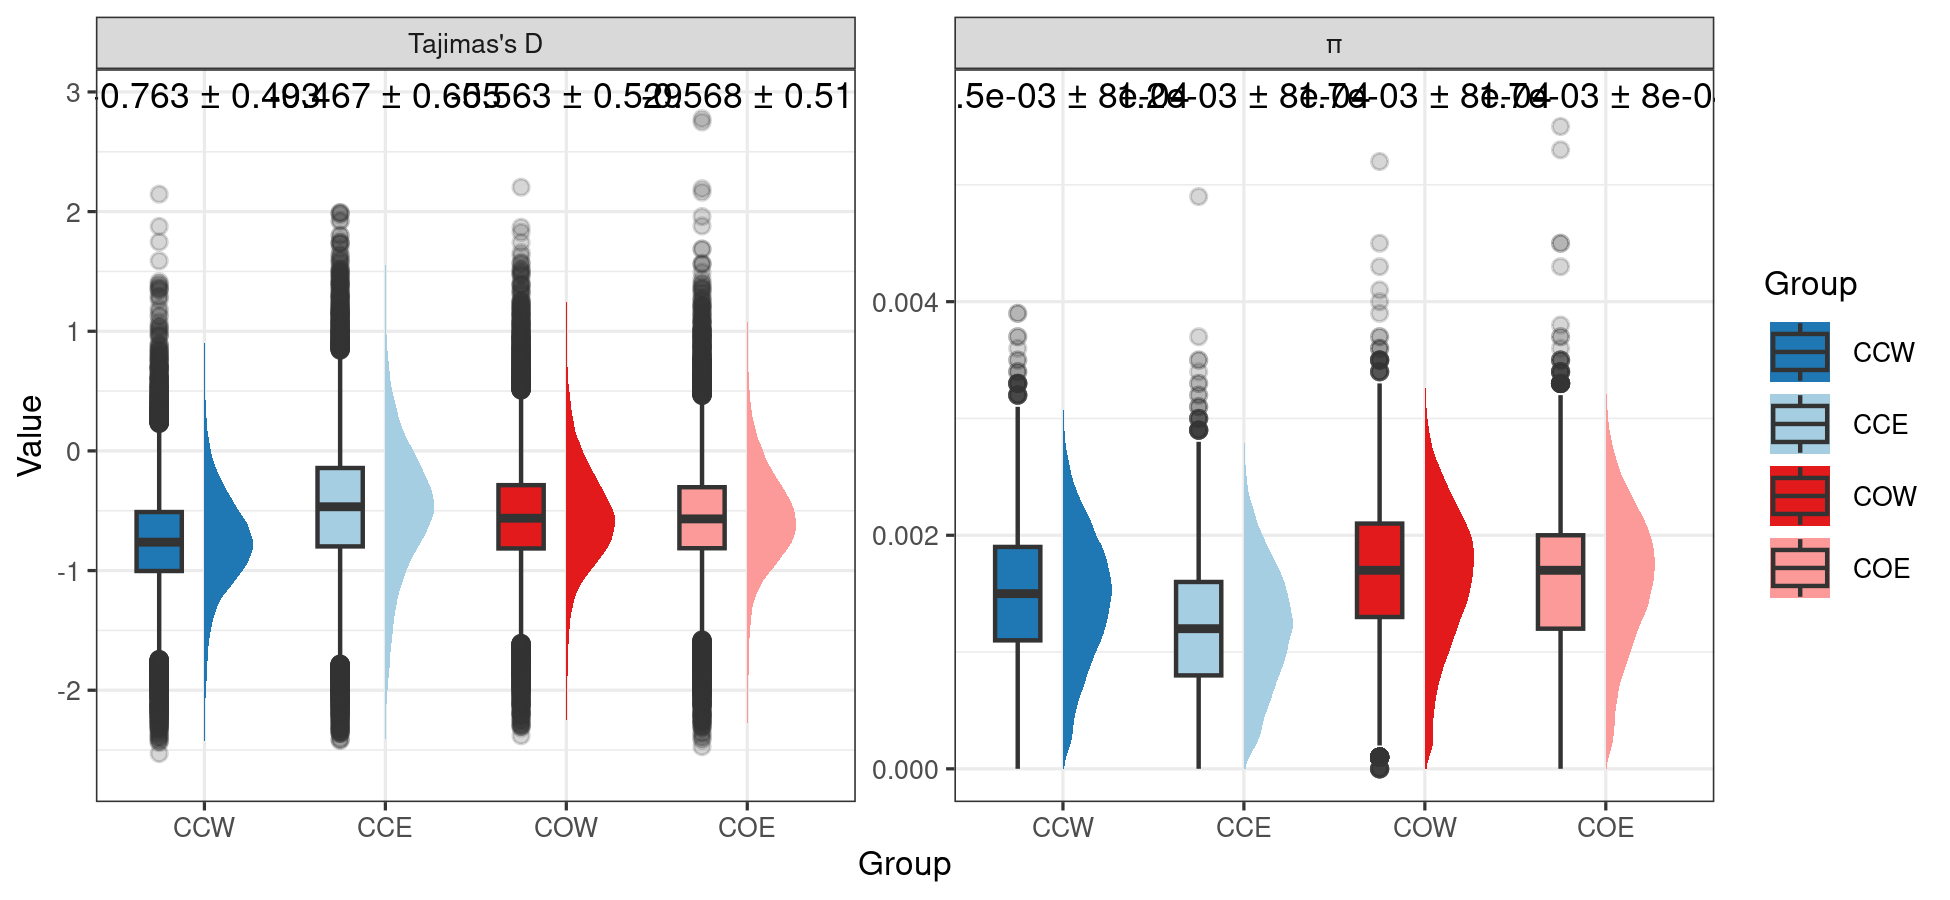
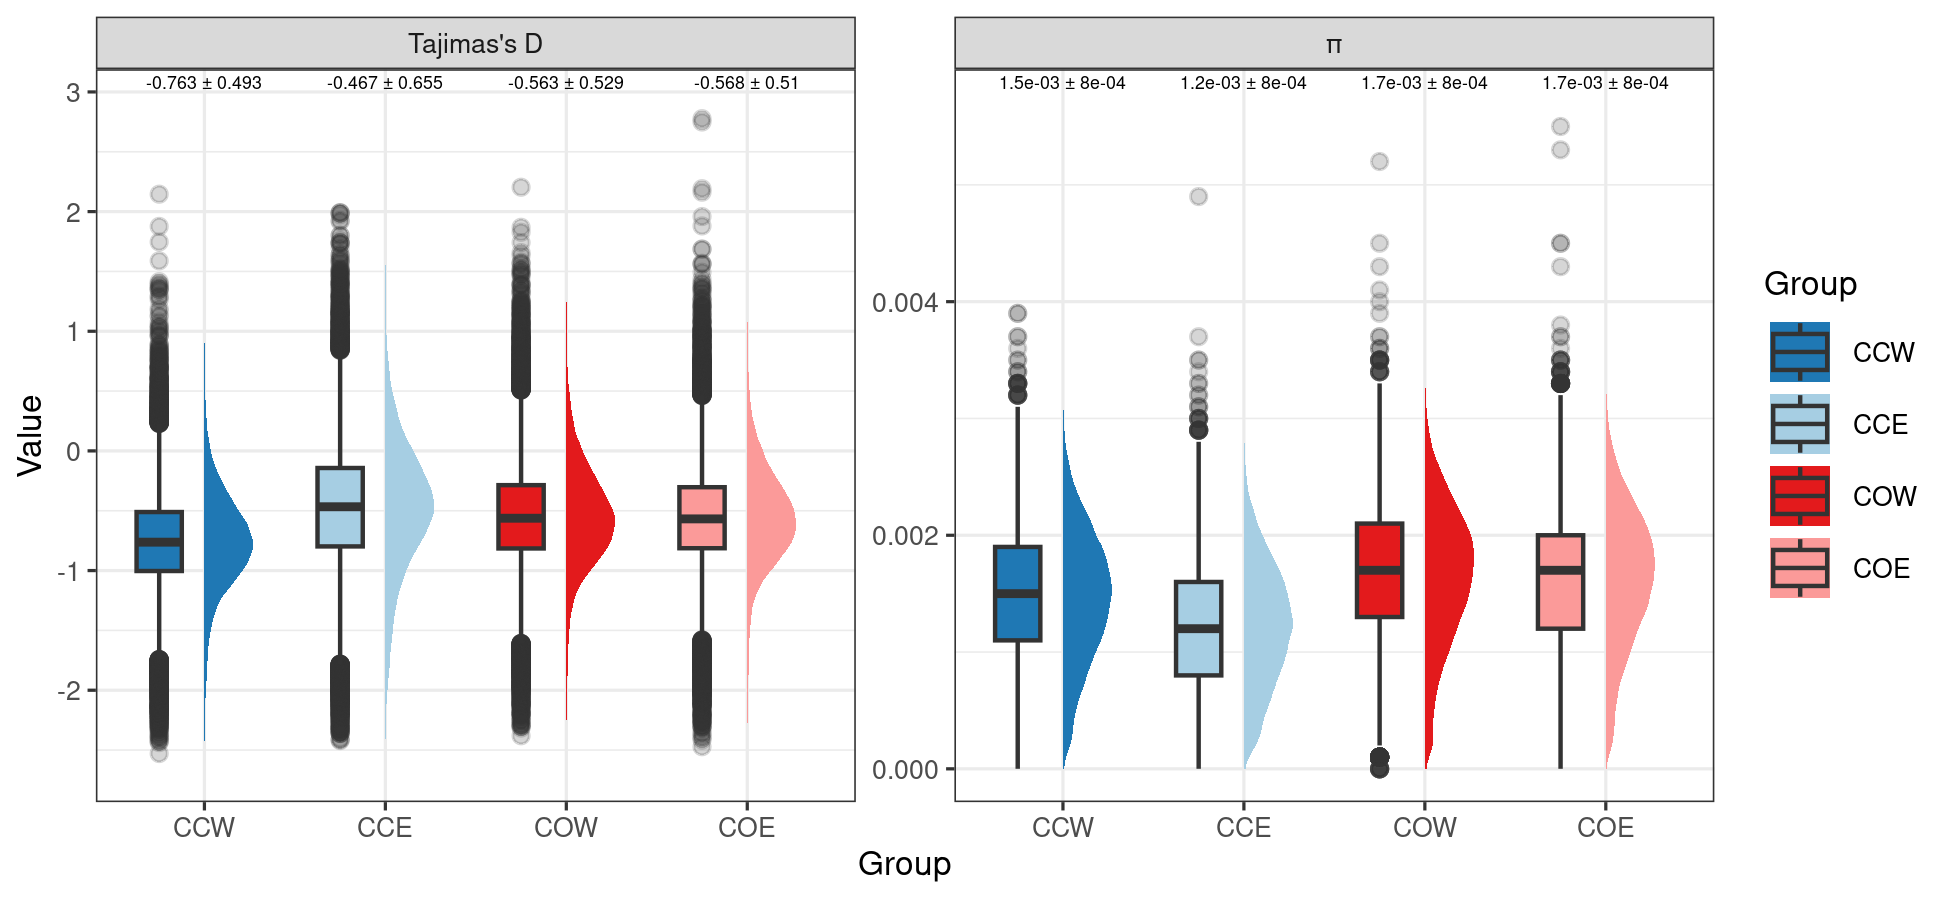
readme

Changed region(s): [[0.0308, 0.0622, 0.4308, 0.1244], [0.4923, 0.0622, 0.8923, 0.1244]]

diff --git a/README.md b/README.md
@@ -6,20 +6,27 @@ This project aims to investigate the evolutionary genomics underlying migratory 
 
 The repository is organized as follows:
 
-### `/pre_processing/`: Preparing fastq reads, alignment. 
+### `/pre_processing/`
+Preparing fastq reads, alignment. 
 
-### `/snp_calling/`: Calling SNPs from alignments, subsampling individuals. 
+### `/snp_calling/`
+Calling SNPs from alignments, subsampling individuals. 
 
-### `/relatedness/`: Identify related individuals. 
+### `/relatedness/`
+Identify related individuals. 
 
-### `/msmc/`: Run MSMC crosscoalescent and MSMC-IM, using raw gVCFs with basic filtering for invariant sites. 
+### `/msmc/`
+Run MSMC crosscoalescent and MSMC-IM, using raw gVCFs with basic filtering for invariant sites. 
 
-### `/admixture/`: Run ADMIXTURE and evalAdmix for plotting genetic tesselations across space. 
+### `/admixture/`
+Run ADMIXTURE and evalAdmix for plotting genetic tesselations across space. 
 
-### `/pi_tajima/`: Estimating π and Tajima's D on the n = 40 subsetted samples used for demographic inference.  
+### `/pi_tajima/`
+Estimating π and Tajima's D on the n = 40 subsetted samples used for demographic inference.  
 
-### `/temperature_periods`: [Kawamura 2007](https://www.ncei.noaa.gov/access/metadata/landing-page/bin/iso?id=noaa-icecore-6076) Ice Core Temperature data for identifying warm / cold periods. 
+### `/temperature_periods`
+[Kawamura 2007](https://www.ncei.noaa.gov/access/metadata/landing-page/bin/iso?id=noaa-icecore-6076) Ice Core Temperature data for identifying warm / cold periods. 
 
 ## Contact
 
-For any questions or concerns, please open an issue on this repository or reach out to me (Justin Merondun): heritabilities@gmail.com
+Please open an issue on this repository or reach out to me (Justin Merondun): heritabilities@gmail.com

diff --git a/pi_tajima/README.md b/pi_tajima/README.md
@@ -125,7 +125,7 @@ tapi_plot <- tapi %>%
   ggdist::stat_halfeye(width = .3,.width = 0, trim=FALSE, justification = 0, 
                        point_colour = NA,normalize='groups')+
   geom_boxplot(width=0.25,position=position_nudge(x=-0.25),outlier.alpha = 0.2)+
-  geom_text(data=sums,aes(x=Group,y=Inf,label=label),inherit.aes=FALSE,vjust=1.5,size=3)+
+  geom_text(data=sums,aes(x=Group,y=Inf,label=label),inherit.aes=FALSE,vjust=1.5,size=1.5)+
   facet_wrap(name~.,scales='free')+
   ylab('Value')+
   scale_fill_manual(values=cols)+
